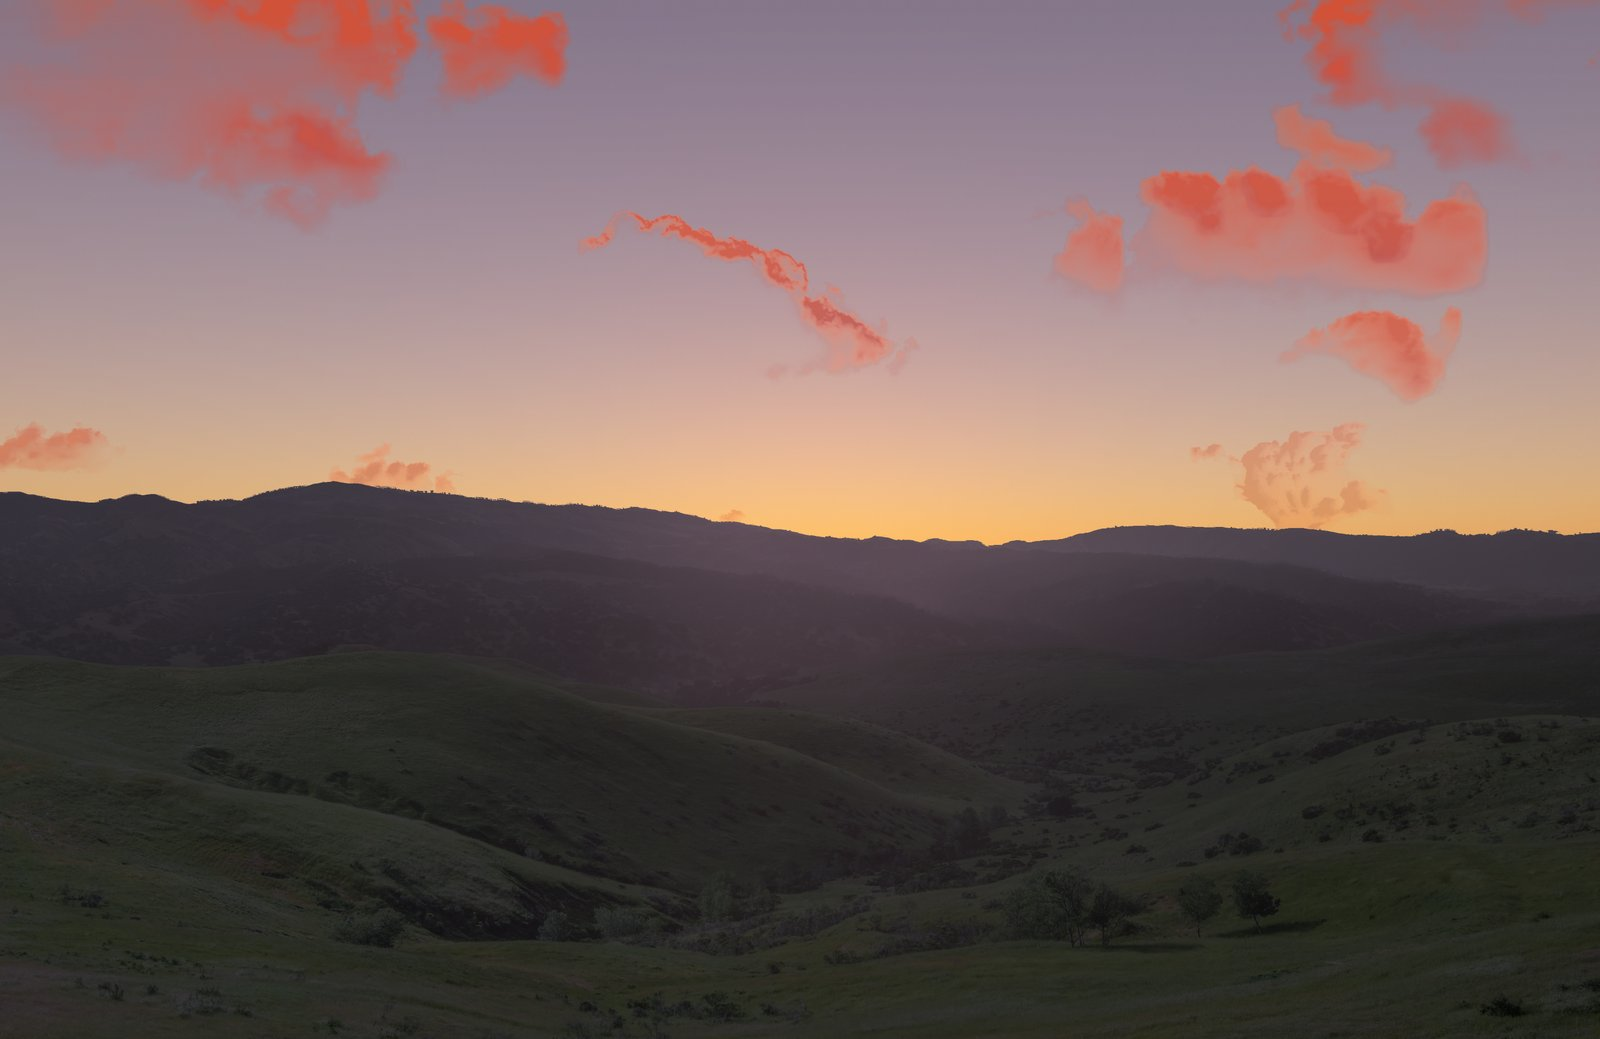
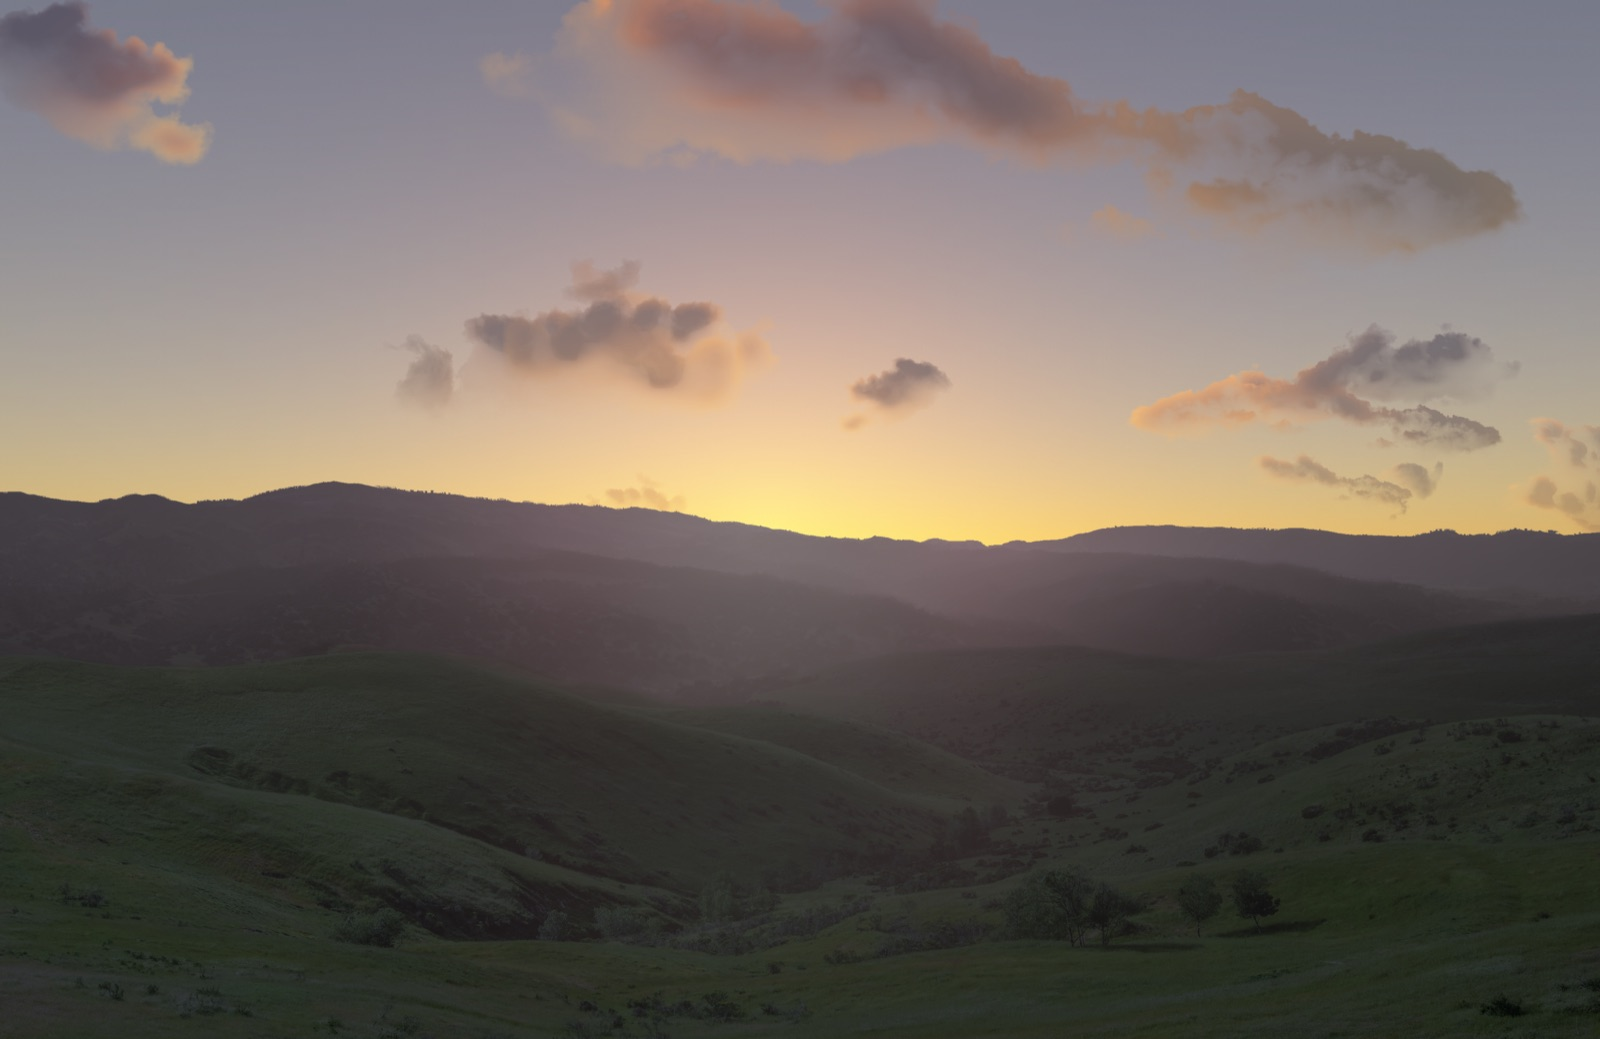
Light Weather's cumulus by where a low Sun is, not flat orange at sunset or soot at dusk
The photo clouds' tones ran from skylight to sunlight whichever side the Sun
was on, so at sunset every cloud was one flat orange, and once the Sun had set
the brightest parts mapped to a light that wasn't there and came out darkest.
Below 8° a cloud beyond the Sun now shows its shaded body, lit on the Sun's
side and through its thin edges, and with the Sun gone from the clouds the sky
and the horizon's glow light them. Above 8° nothing moves: a partly cloudy
noon matches to the byte. A Tree for the Year shares the clouds and gets the
same. The sunset still is rendered afresh; the version is left for the merge.

diff --git a/Sources/Atrium/Weather.swift b/Sources/Atrium/Weather.swift
@@ -641,7 +641,7 @@ class WeatherScene: SKScene, BatteryPaced {
         ])
         shader.attributes = [SKAttribute(name: "a_lum", type: .vectorFloat2), SKAttribute(name: "a_far", type: .float),
                              SKAttribute(name: "a_back", type: .float), SKAttribute(name: "a_screen", type: .vectorFloat4),
-                             SKAttribute(name: "a_cloud", type: .vectorFloat4)]
+                             SKAttribute(name: "a_cloud", type: .vectorFloat4), SKAttribute(name: "a_sun", type: .vectorFloat4)]
         return shader
     }()
 
@@ -731,6 +731,14 @@ class WeatherScene: SKScene, BatteryPaced {
             attribute("a_far", of: cloud.node, to: Float(1 - exp(-cloud.away / 45)))
             let dir = normalize(viewpoint.right * cloud.across + viewpoint.forward * cloud.away + Sky.Vector(0, 0, cloud.base + 0.6 - viewpoint.height))
             attribute("a_back", of: cloud.node, to: Float(smoothstep(0.8, 0.97, dot(dir, sunNow))))
+            // A low Sun lights a cloud from one side: where it is on the cloud's own picture (right and up of the line
+            // of sight to it, mirrored with a mirrored cloud), how far beyond the cloud it is, and how low. Nothing
+            // above 8°, or once it's 8° down and the Moon lights them.
+            let side = normalize(cross(dir, Sky.Vector(0, 0, 1))), up = cross(side, dir)
+            let onPicture = SIMD2(dot(sunNow, side), dot(sunNow, up)), aim = onPicture / max(length(onPicture), 0.25)
+            let low = smoothstep(0.14, 0.02, sunNow.z) * smoothstep(-0.14, -0.04, sunNow.z)
+            attribute("a_sun", of: cloud.node, to: [Float(aim.x * Double(cloud.node.xScale)), Float(aim.y),
+                                                    Float(low * smoothstep(0, 0.85, dot(dir, sunNow))), Float(low)])
             let seed = cloud.node.userData?["seed"] as? SIMD2<Float> ?? .zero
             attribute("a_cloud", of: cloud.node, to: [seed.x, seed.y, Float(aspect), Float(1.1 * (1 - living))])
             photoCloudsShown[i] = cloud
@@ -801,7 +809,9 @@ class WeatherScene: SKScene, BatteryPaced {
     }
 
     /// Relights a photo cloud: its tones mapped from skylight (dark) to sunlight (bright), shadier toward the base.
-    /// Near the Sun we see its shaded side, with light through its thin edges. Far ones fade into the sky behind.
+    /// Near the Sun we see its shaded side, with light through its thin edges. A low Sun lights it from one side
+    /// (`a_sun`: where the Sun is on the cloud's picture, how far beyond the cloud it is, and how low), and once the
+    /// Sun has left the clouds the sky lights them. Far ones fade into the sky behind.
     private static let photoCloudShaderSource = """
     vec3 decode(vec3 c) { return c * c * 4.0; }
     vec2 nuv(vec2 p) { return (fract(p) * 256.0 + 0.5) / 257.0; }
@@ -825,15 +835,32 @@ class WeatherScene: SKScene, BatteryPaced {
         float h = packed.g - 0.25 * (n2.b - 0.5) - 0.15 * (1.0 - smoothstep(0.05, 0.5, uv.y));
         float a = c.a * smoothstep(0.03, 0.2, c.a) * smoothstep(a_cloud.w - 0.1, a_cloud.w + 0.25, h);
         float lum = packed.r;
-        float t = clamp((lum - a_lum.x) / max(a_lum.y - a_lum.x, 0.02), 0.0, 1.0);
+        float tone = clamp((lum - a_lum.x) / max(a_lum.y - a_lum.x, 0.02), 0.0, 1.0);
         float v = 1.0 - uv.y;
-        t = (0.3 + 0.7 * t) * (1.0 - 0.5 * v * v);
+        // Lit from above, as in the photo. A high Sun's light fills a cloud's shadows from inside; a low Sun's
+        // (a_sun.w) doesn't, and they take the sky's colour.
+        float t = (mix(0.3, 0.08, a_sun.w) + mix(0.7, 0.92, a_sun.w) * tone) * (1.0 - 0.5 * v * v);
         t = mix(t, t * t * 0.9, a_back * 0.6);
+        // A low Sun beyond the cloud (a_sun.z) lights the side of it toward the Sun (a_sun.xy, on its picture) and
+        // shines through its thin edges, all round when it's straight behind. The body we see is in shade.
+        float thin = 1.0 - smoothstep(0.2, 0.8, packed.g);
+        float side = clamp(0.5 + dot(vec2(uv.x - 0.5, (uv.y - 0.5) * a_cloud.z), a_sun.xy) * 1.8 + 0.5 * (1.0 - length(a_sun.xy)), 0.0, 1.0);
+        float back = side * side * (0.12 + 0.88 * thin) * (0.55 + 0.45 * tone);
         vec3 col = mix(u_cloudAmb * (1.0 - 0.2 * a_back), u_cloudSun, t);
-        col += u_cloudSun * a_back * 2.0 * smoothstep(0.15, 0.35, a) * (1.0 - a); // light through the thin edges
+        vec3 rim = u_cloudSun * a_back * 2.0 * smoothstep(0.15, 0.35, a) * (1.0 - a) * (1.0 - a_sun.z); // light through the thin edges
         vec2 screen = a_screen.xy + v_tex_coord * a_screen.zw;
         vec2 st = vec2(screen.x, max(screen.y - u_cam.w, 0.0) / (1.0 - u_cam.w));
         vec3 sky = mix(decode(texture2D(u_before, st).rgb), decode(texture2D(u_after, st).rgb), u_blend);
+        // In shade, or with the Sun gone from the clouds (its light on them under twice the sky's), the sky lights a
+        // cloud instead: the photo's bright parts stay the brighter ones, where mapped to a Sun that had set they
+        // came out the darkest, like soot. The glow on the horizon lights it from below, and what sunlight is left
+        // adds to that.
+        vec2 below = vec2(screen.x, (u_cam.z + 0.03 - u_cam.w) / (1.0 - u_cam.w));
+        vec3 glow = min(mix(decode(texture2D(u_before, below).rgb), decode(texture2D(u_after, below).rgb), u_blend), vec3(1.5));
+        vec3 shade = u_cloudAmb * (0.45 + 0.47 * tone) * (1.0 - 0.3 * v * v) + glow * a_sun.w * 0.1 * (0.25 + 0.75 * v) * (0.4 + 0.6 * thin);
+        vec3 bright = vec3(0.2126, 0.7152, 0.0722);
+        float gone = 1.0 - smoothstep(0.5, 2.0, dot(u_cloudSun, bright) / max(dot(u_cloudAmb, bright), 0.000001));
+        col = mix(col, shade + u_cloudSun * back, max(gone, a_sun.z)) + rim;
         col = mix(col, sky, a_far);
         col = mix(col, vec3(dot(col, vec3(0.2126, 0.7152, 0.0722))) * vec3(0.62, 0.85, 1.45), u_night);
         col = sqrt(1.0 - exp(-col));

diff --git a/docs/weather.md b/docs/weather.md
@@ -57,6 +57,8 @@ Green California hills and oak woodland, from a real photo, under whatever the w
     - **Life:** each forms, swells from 85% to 105% about its base, and dissolves over 10–20 minutes (small), 20–30 (medium) or 30–45 (a tower), as real fair-weather cumulus do, divided by the Cloud speed but never under 3 minutes; then it forms again somewhere else in view as a different cloud. Forming and dissolving raise a clip on the cloud's thickness (`a_life`): the edges go first and the thick core last, as real cumulus evaporate. A plain fade looked like a slide dissolve, and clipping raw alpha broke clouds into scraps and holes, since the photos have thin patches inside; the thickness is the alpha blurred by σ ≈ 3% of the width (a finding of the billowing research). The billow noise roughens the clip, and it rises at the base first, so clouds form raggedly core-first and dissolve edges- and base-first rather than fading. Dave suggested new clouds should appear this way rather than fade in. `packedCloud` repacks each photo at load, since the shader only needs its brightness: red and blue its luminance, green its thickness. The first clouds start part-way through their lives, so they don't all form together.
     - **Billowing** (after a research agent's comparison): two lookups of `CloudNoise` scrolling different ways and summed, so the swell churns in place rather than sliding, displace each photo by at most 0.85% of its width, most at the top and not at the flat base. `u_billow` is cloud time (`dt·cloudSpeed/200`, wrapping at one noise period, seamlessly), so it runs at about a quarter of a real cumulus time-lapse's internal motion, measured on real footage: alive without looking like jelly. Much more amplitude and the displacement folds into double contours. The node is drawn 4% bigger (anchor y 0.077) so puffs can swell past the photos' tight 1% margins. Rejected: flow maps (blur the crisp detail and ring at the crossfade), depth-based 2.5D (Depth Anything returns a ground plane for a cloud), time-lapse flipbooks (the good ones are CC BY-SA, and 3 MB a cloud), and crossfading two photos (a double exposure). The shadows' lumpy edges churn on the same clock, so they keep in step. About +0.1 ms.
     - **Light** (`photoCloudShaderSource`): the photo's brightness, from its 2nd to 98th percentile, maps from skylight to sunlight (`u_cloudAmb`, `u_cloudSun`), shadier toward the base. Raising that to a power made the puffs blotchy, so it stays linear. Near the Sun (`a_back`) the body darkens a little and the thin edges glow. Far clouds fade into the sky behind them (`a_far`, 1 − e^(−d/45 km)), and the night shift applies. The faint veil of sky the cut leaves (alpha under 0.2) is clipped, since it glowed as a rectangle at sunset.
+    - **A low Sun** (`a_sun`, set for each cloud in `driftClouds`; 2026-11-14): the photos were taken under a high Sun, and mapped as above every cloud at sunset was one flat orange, whichever side of it the Sun was on, and yellow all through at sunrise. From 8° up down to about 1° (`a_sun.w`, 0 to 1) a cloud's shadows take less of the sunlight, a floor of 0.08 of it from 0.3, so they show the sky's colour. A Sun beyond the cloud (`a_sun.z`: 0 with the Sun abeam of it to 1 within about 30° of the line of sight to it, times how low the Sun is) leaves the body we see in shade and puts its light on the side of the cloud toward it and through its thin edges (`thin`, from the packed thickness), all round when the Sun is straight behind. `a_sun.xy` is where the Sun is on the cloud's own picture, mirrored with a mirrored cloud. Front-lit and back-lit are worked out as two colours and crossfaded: blending how lit the cloud is, and colouring that, dimmed the sunlight into brown. Above 8° nothing changes: a partly cloudy noon matches the old shader to the byte.
+    - **In shade** (the shader's `shade`): the cloud's own tones under the sky's light, 0.45 to 0.92 of `u_cloudAmb` from the photo's darkest to its brightest, and the glow on the horizon under the cloud lighting it from below, most at its base and through its thin parts. It's what a back-lit body shows, and all there is once the Sun has left the clouds (`gone`: its light on them under twice the sky's, which is from about 1° below the horizon, as the Earth's shadow reaches them, until the Moon takes over at 8° down). Until 2026-11-14 the tones still ran from skylight to a sunlight that wasn't there, so the photo's brightest parts came out the darkest: clouds like soot at dawn and dusk.
   - **Clouds:** one flat layer in the sky shader, seen through the camera, so it shrinks and flattens toward the horizon (after the research prototype's "FLAT" variant). `Conditions.clouds` sets its cover, base and thickness in km, and how flat a sheet it is (`deck`: 0 heaped cumulus, 1 featureless), after the cloud each kind comes from: stratocumulus (overcast), stratus (drizzle), nimbostratus (rain, snow), cumulonimbus (storm), and a thin bright layer at 0.3 km for fog.
     - **Shape:** `cloudShape` from two lookups of `CloudNoise` (baked once: 257² tileable value-noise fbm, Worley billows, fine fbm and a warp channel). Baked noise costs about a fifth of computed fbm. It drifts with the wind (`u_wind`, km/s, across the view and a little away) and evolves slowly.
     - **Light:** three looks at the density (here, a little further along the ray for top edges, and toward the Sun for shadow), then: grey bases about as bright as the sky beside them, white sunlit tops, dark sides with bright rims toward the Sun (Henyey–Greenstein forward scattering). A deck is opaque (or the Sun's glow shows through as an orange column), and darker the thicker it is (`exp(−0.6·(thickness − 1))`), down to a storm's slate. By day a deck is brighter overhead than at the horizon (the CIE overcast sky, `0.75 + 1.2·z`) and faintly blue. Its underside is lumpy: rolls of thicker cloud between thinner, brighter gaps.
@@ -117,6 +119,7 @@ What changed from it:
 
 ## Tuning constants
 - **Clouds:** `Conditions.clouds`, per kind. The deck drifts at `wind/3600·0.6` km/s, the photo cumulus at `wind/3600·1.3`, both times the Cloud speed.
+- **Cumulus at a low Sun:** how low (`a_sun.w`) runs from 0 with the Sun 8° up to 1 at about 1°, and back to 0 from 2° to 8° below the horizon. Lit from behind, a cloud takes `side²·(0.12 + 0.88·thin)·(0.55 + 0.45·tone)` of the sunlight, `side` running across it toward the Sun; in shade, `(0.45 + 0.47·tone)·(1 − 0.3·v²)` of the skylight (`v` 0 at its top to 1 at its base) and up to 0.1 of the horizon's glow. `gone` runs from the Sun's light on the clouds at twice the sky's down to half.
 - **Rain:** lean `across·min(wind m/s ÷ 7, 1)`; layers fall at 700–1750 pt/s.
 - **Snow:** layers fall at 18–74 pt/s, drifting with the wind.
 - **Ground:** covers the bottom 56% of the screen; horizon at 0.45; lit by `sunlit / 8`, compressed `^−0.38`.
@@ -130,6 +133,7 @@ What changed from it:
 - Star trails cost about 0.2 ms more again: 1.0 ms on a clear night.
 - The sky bake is 4 ms a minute, off the main thread. The first build also makes the atmosphere tables and cloud noise and decodes the photo, about 200 ms once per launch; later builds take about 4 ms, but one after no copy was showing decodes the photo and packs its clouds again.
 - **The clouds' shader attributes are changed in place** (2026-10-14), and only when they differ, where every cloud made four new `SKAttributeValue`s every frame: partly cloudy, the update went from 19.9 to 18.9 µs a frame in a release build (six interleaved runs, the random draws pinned). Renders match the old code byte for byte at 4, 10 (and 3 s of frames), 30 and 120 s, and overcast at dusk with real-speed drift as frames.
+- **Lighting the cumulus by a low Sun** (2026-11-14) reads the sky twice more for each pixel of cloud. Partly cloudy from dawn to dusk, in a debug build on a busy Mac with the same clouds before and after: GPU 0.51–0.92 ms before, 0.52–0.89 after, CPU 0.5–0.7 both.
 - Memory: the ground photo is 24 MB as a texture (4096×1485), the rest is small. Off the desktop it all goes; kept in statics it stayed for good (until 2026-10-14).
 
 - **On battery it runs at 15 fps at most under clear, partly cloudy and overcast skies and in fog, and at the battery's rate in drizzle, rain, snow and storms** (`batteryRate`, set as each weather is built in `build()`, so it follows the live weather; 2026-10-13). Fair-weather clouds drift about 5 points a second at the default Cloud speed 6× (0.7 device pixels (2x on a 14-inch MacBook Pro, 3024 × 1964) a frame at 15 fps; 1.7 at 15×). Snow falls 148 px a second (10 px a frame at 15), rain far faster, and a lightning stroke lasts 30 ms. A Tree for the Year, built on it, takes the calm rate back (`calmRate`), since its crown sways with the wind.
@@ -150,20 +154,22 @@ What changed from it:
 - **Clear-night stars** (2026-10-05): "the clear night is a bit intense in terms of star light … I get in country side you would see a lot of stars but lets tone it down just a bit here. not a lot". About a fifth fewer stars (28% and 20% of cells, from 35% and 25%) and a sixth dimmer (0.5, from 0.6).
 - **Stars that turn** (2026-10-05): "is it possible to have the stars slowly turning/rotating to match the spin of the planet in that view at night time?" They turn at the real rate, which is slow: watch one against the hills for a minute.
 - **Star trails** (2026-10-05): told the real turn is too slow to see at a glance, "i think this is ok, maybe to augment this we allow like a star trail option, i dont know", then "either way still rotate them". Built as a switch, off by default, for him to judge; he hasn't seen it yet. If he doesn't take to it, `starTrails`, the knob and `u_stars.y` come out together.
+- **The low-Sun fixes** (2026-11-14): he asked "what kind of improvements can we make", and a research pass rendered every kind at noon, and clear, partly cloudy, overcast and storm from dawn to night, and came back with eight proposals ranked by how much they'd be noticed. Of those his word was "do the weather fixes", the first two. This is the first: cumulus lit by where the Sun is (A low Sun and In shade, above), where at sunset they were flat orange cut-outs and at dawn and dusk like soot. The rest weren't asked for and aren't built.
 
 ## Ideas / next steps
 - An optional temperature readout with a °F/°C setting, which Dave was offered.
-- A speed setting for the stars' turn, if the real rate proves too slow to notice (Dave was fine with the real rate), and a length for the trails. The real stars are another step: Live Sky's catalogue would put about 250 in this view, far fewer than the field has.
+- A speed setting for the stars' turn, if the real rate proves too slow to notice (Dave was fine with the real rate), and a length for the trails. The real stars are another step: Live Sky's catalogue puts 50 to 110 in this view (counted through a year's nights, 2026-11-14: the view is 3% of the sky and low in it, so the air dims them and about 40 would show), far fewer than the field's 11,000 or so.
 - Seasonal ground colour: Fort Ord's grass is golden from June to November while the oaks stay green; the tree mask could drive it by month and hemisphere.
 - A rainbow when it's showering with the Sun low behind the view (the research has the geometry: 42° around the antisolar point, red outside, a fainter reversed bow at 51°).
 - Cloud shadows drifting over the hills, and far rain shafts under showers.
-- Backlit photo clouds near the Sun; the cutter couldn't separate them from the glare.
+- Backlit photo clouds near the Sun, which the cutter couldn't separate from the glare: superseded on 2026-11-14 by lighting the cut-outs there are by where the Sun is (A low Sun, above).
 - Ask Open-Meteo for `direct_radiation` and `diffuse_radiation`: their ratio says how sunlit the hills really are under broken cloud, instead of guessing from cover. `cloud_cover_low` and `_mid` could split the deck from altocumulus.
 - Rime fog (code 48) frosts the trees pale blue-grey (#9296a8); fog lit by a low Sun is warm (#e8d8c8), and valley fog has a flat, sharp top.
 
 ## Checking it
 - `SNAPSHOT_SCENE="Weather" swift test` renders the offline default: partly cloudy, at this moment where you are.
 - **Every state:** `SNAPSHOT_DEFAULTS="weather.lock=7,weather.previewTime=1,weather.previewHour=22" SNAPSHOT_SCENE=Weather swift test` renders a snowy night. Add `weather.cloudSpeed=1` for real-speed drift. The lock is an index: 0 live, 1 clear, 2 partly cloudy, 3 overcast, 4 fog, 5 drizzle, 6 rain, 7 snow, 8 storm. For exact codes, cloud cover or wind, pass `conditions:` to `WeatherScene(size:conditions:)` from a test.
+- **A low Sun:** render `weather.lock=2` through today's sunrise and sunset with `weather.previewHour` (in mid-November at the test's fallback place the Sun is 4° down at 6.4, 3° up at 7.1, 7° up at 15.9, on the horizon at 16.6 and 5° down at 17.15). Clouds toward the Sun should be grey-mauve with warm sides, and at dawn and dusk grey with their tops the lighter part, never black-cored. The clouds are placed afresh each run, so to compare two versions of the shader pin their random draws for the moment (a `RandomNumberGenerator` seeded from a default, passed to the draws in `addPhotoClouds`, `driftClouds` and `overheadCloud`).
 - `swift test --filter parsesOpenMeteo`.
 - **The stars' turn:** `weatherStarsTurnWithTheSky()` checks the matrix against the Sun and Moon's own path. To see it, render a clear night at `weather.previewHour=2` and at `2.0166667`, a minute on: every star should be about 5 pt lower and further toward the pole's side.
 - **Star trails:** `SNAPSHOT_DEFAULTS="weather.lock=1,weather.previewTime=1,weather.previewHour=2,weather.starTrails=1" SNAPSHOT_SCENE=Weather swift test`.
